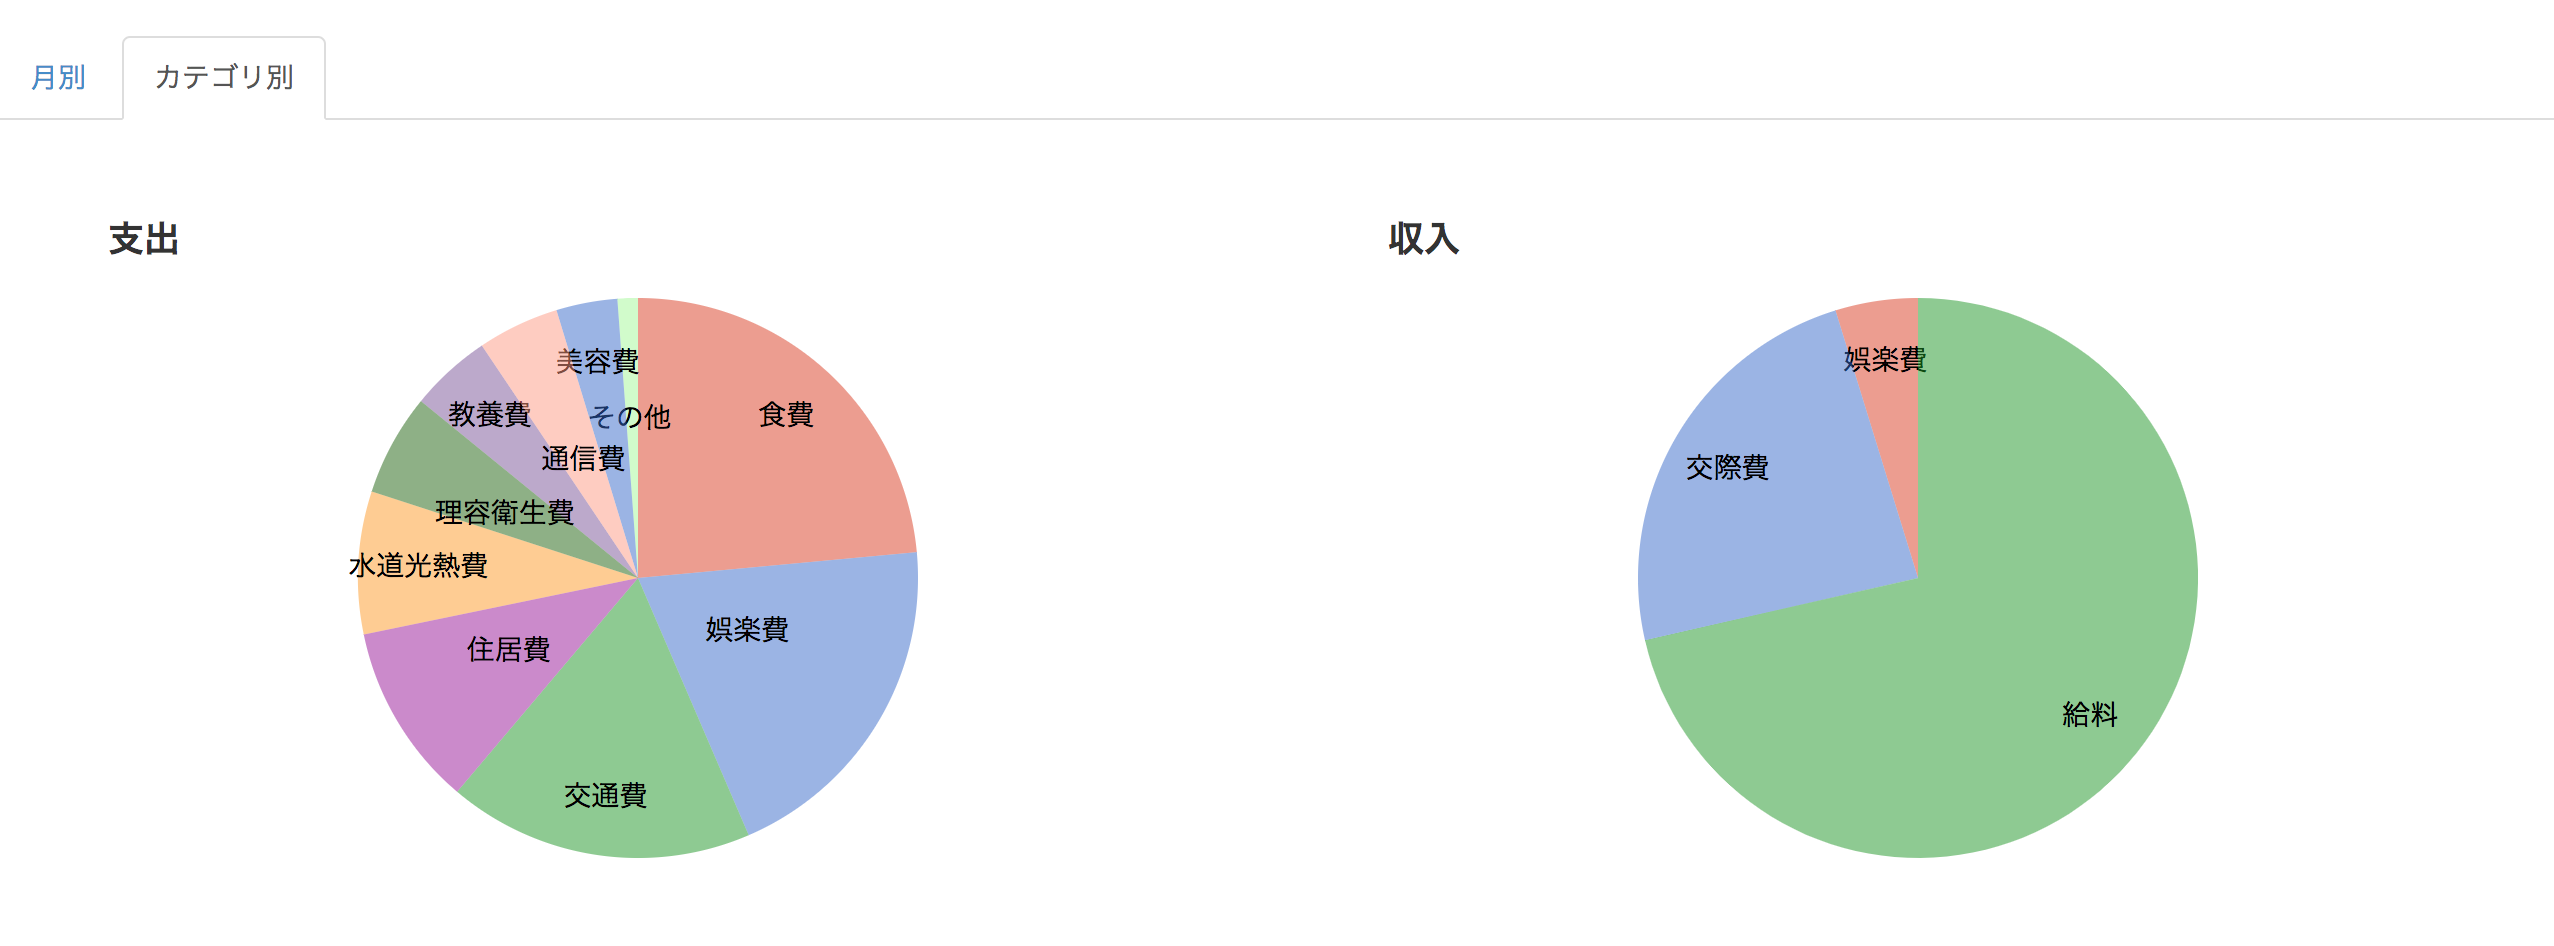
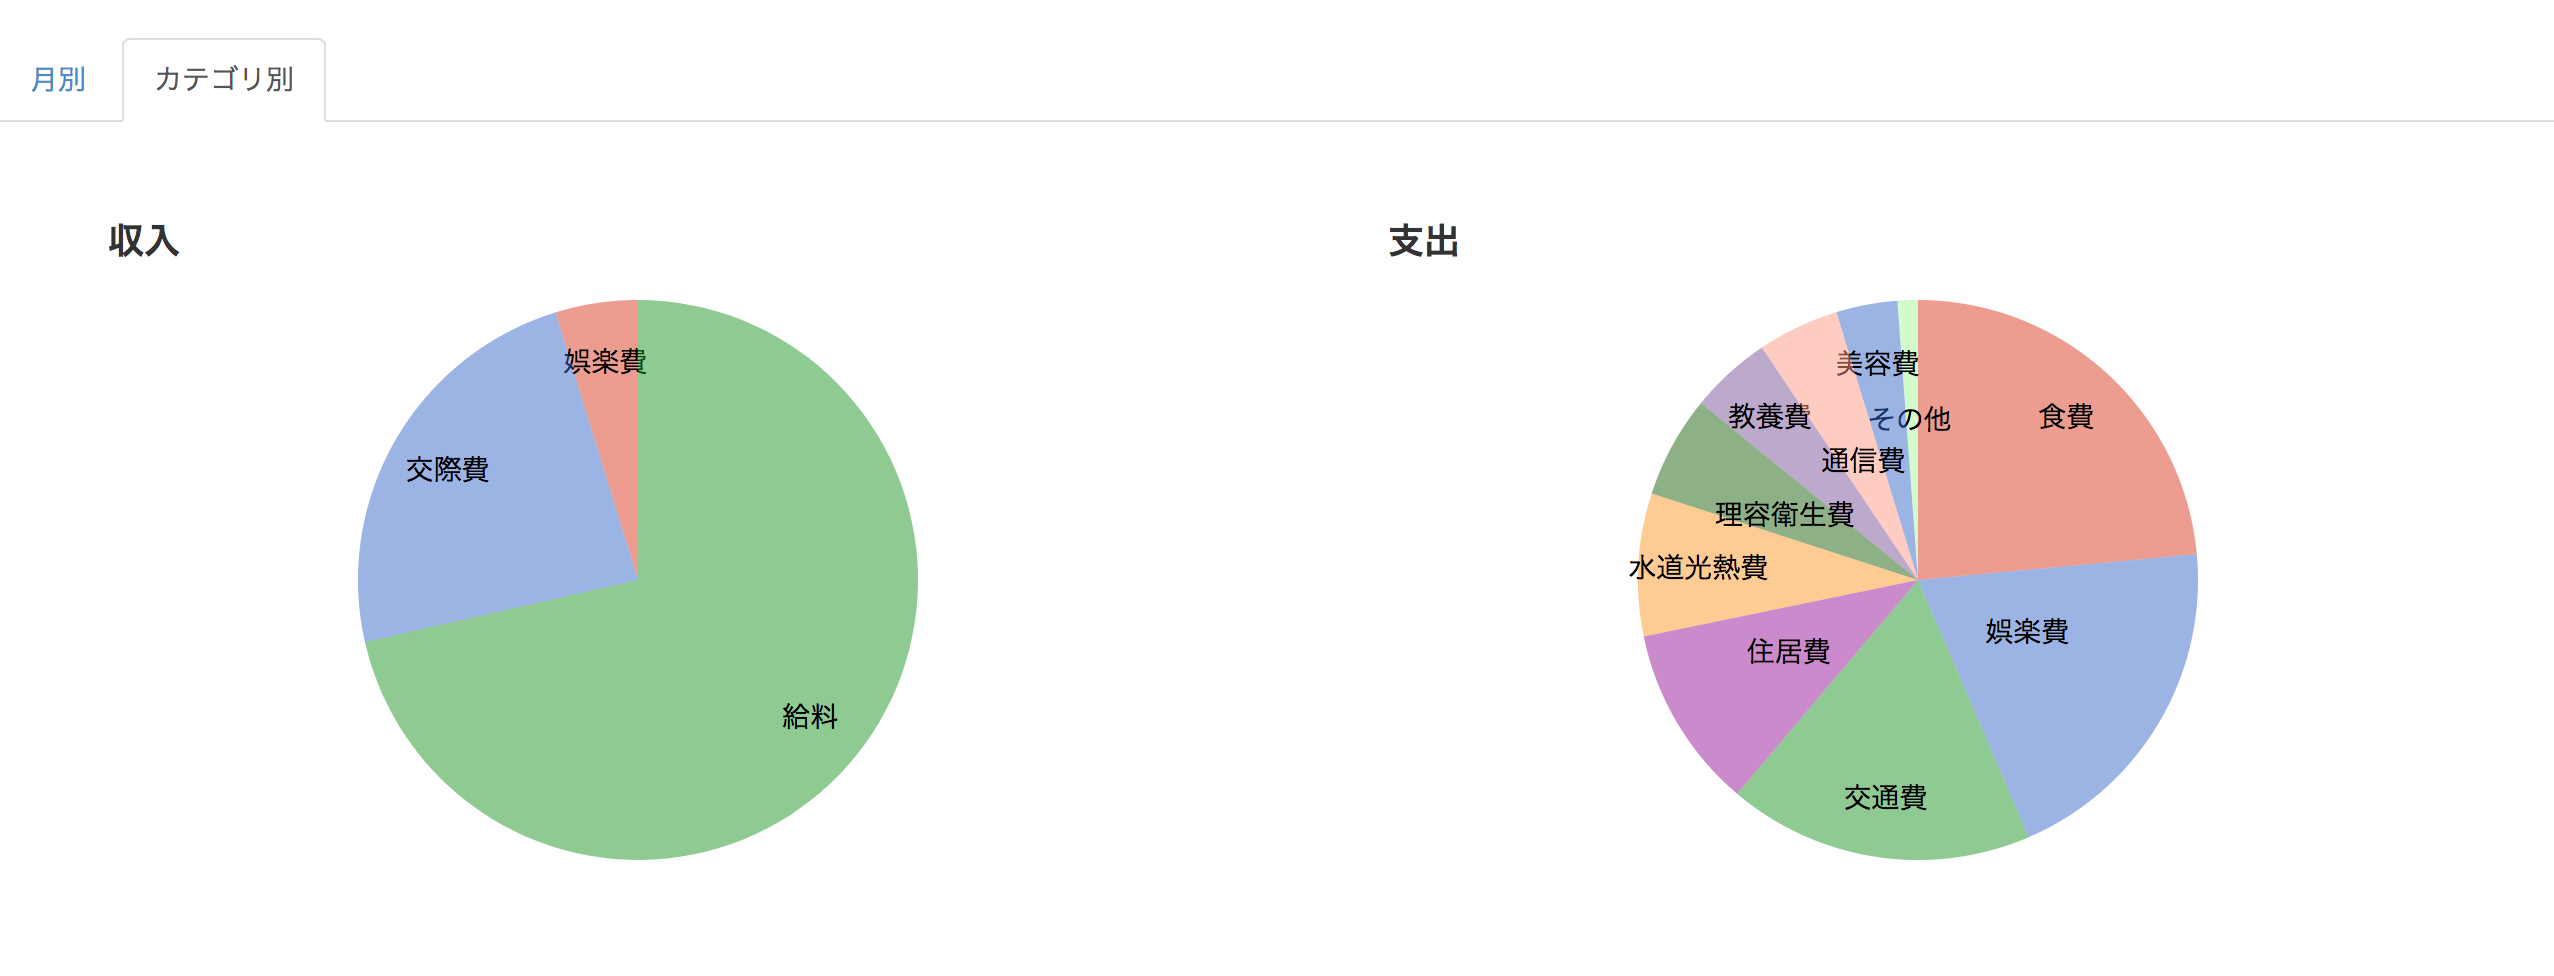
update external spec for statistics view

diff --git a/payment_manager/algieba/external.rst b/payment_manager/algieba/external.rst
@@ -86,8 +86,10 @@
 
 利用者はブラウザから収支の登録や確認、統計情報の確認を行うことができる
 
-- 収支の登録や検索，辞書の登録は管理画面で行う
-- 統計情報の確認は統計画面で行う
+- 収支の登録や検索，辞書の登録は :ref:`alg-ext-ui-management` で行う
+- 統計情報の確認は :ref:`alg-ext-ui-statistics` で行う
+
+.. _alg-ext-ui-management:
 
 管理画面
 ^^^^^^^^
@@ -249,19 +251,41 @@
 
 - 内容，カテゴリが長い場合は省略される
 
+.. _alg-ext-ui-statistics:
+
 統計画面
 ^^^^^^^^
 
-.. image:: images/ui_statistics.png
-   :alt: 統計画面
+統計画面では以下の2種類のグラフを表示する
 
-- 管理画面へ遷移するボタンと収支を表すグラフで構成される
+- :ref:`alg-ext-ui-sta-date`
+- :ref:`alg-ext-ui-sta-category`
+
+.. _alg-ext-ui-sta-date:
+
+月別収支
+""""""""
+
+.. image:: images/statistics_date.png
+   :alt: 月別収支
+
 - 月別の収支を表す棒グラフが3年間分表示される
 
   - マウスポインタを棒の上に置くと金額が表示される
   - 横軸のラベルをクリックするとその月の日別の収支のグラフが下に表示される
 
     - 日別の収支の棒グラフも同様に，マウスポインタを棒の上に置くと金額が表示される
+
+.. _alg-ext-ui-sta-category:
+
+カテゴリ別収支
+""""""""""""""
+
+.. image:: images/statistics_category.png
+   :alt: カテゴリ別収支
+
+- カテゴリ別の収支の割合を表す円グラフを表示する
+- 収支・支出それぞれ1つずつグラフを表示する
 
 .. _alg-ext-api:
 
